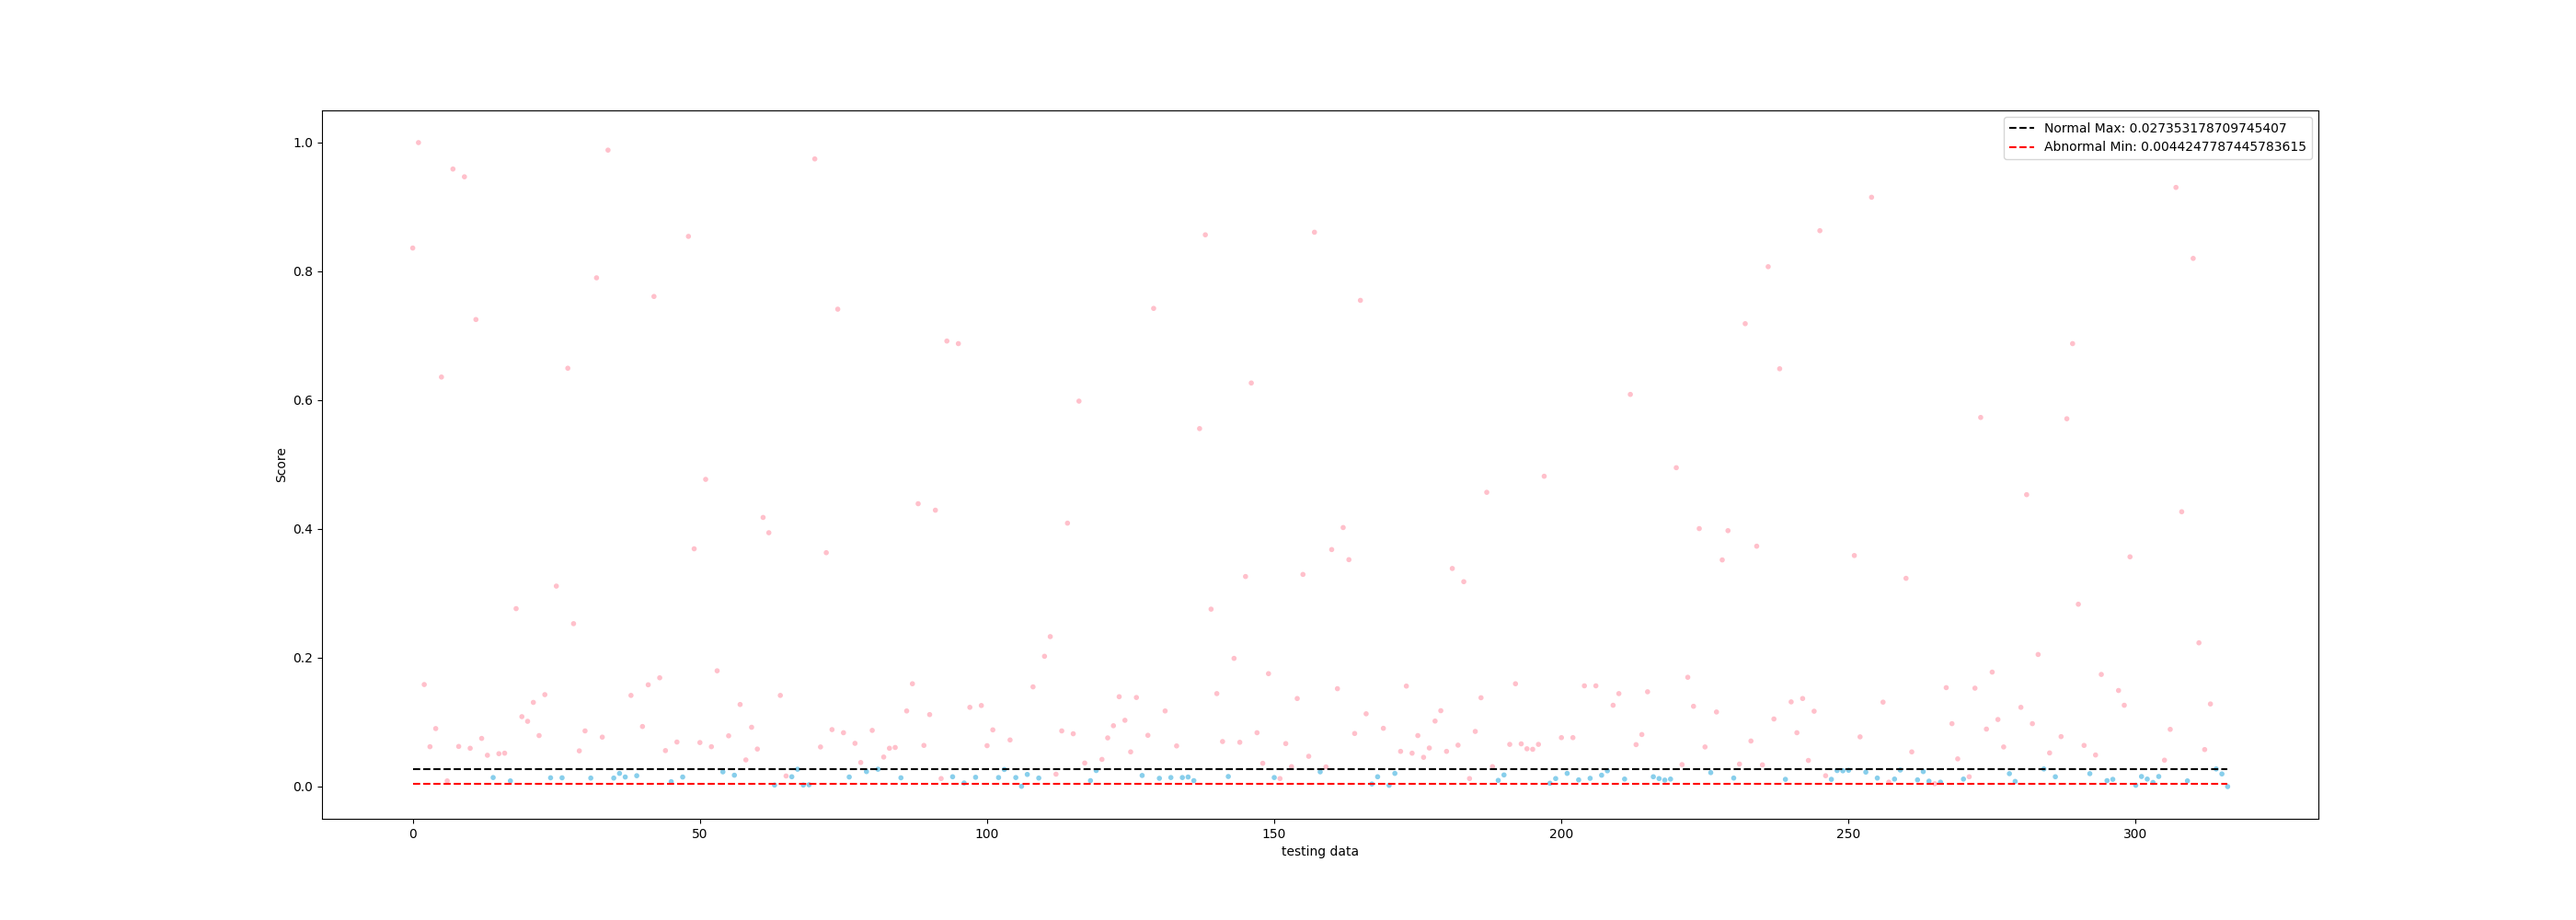
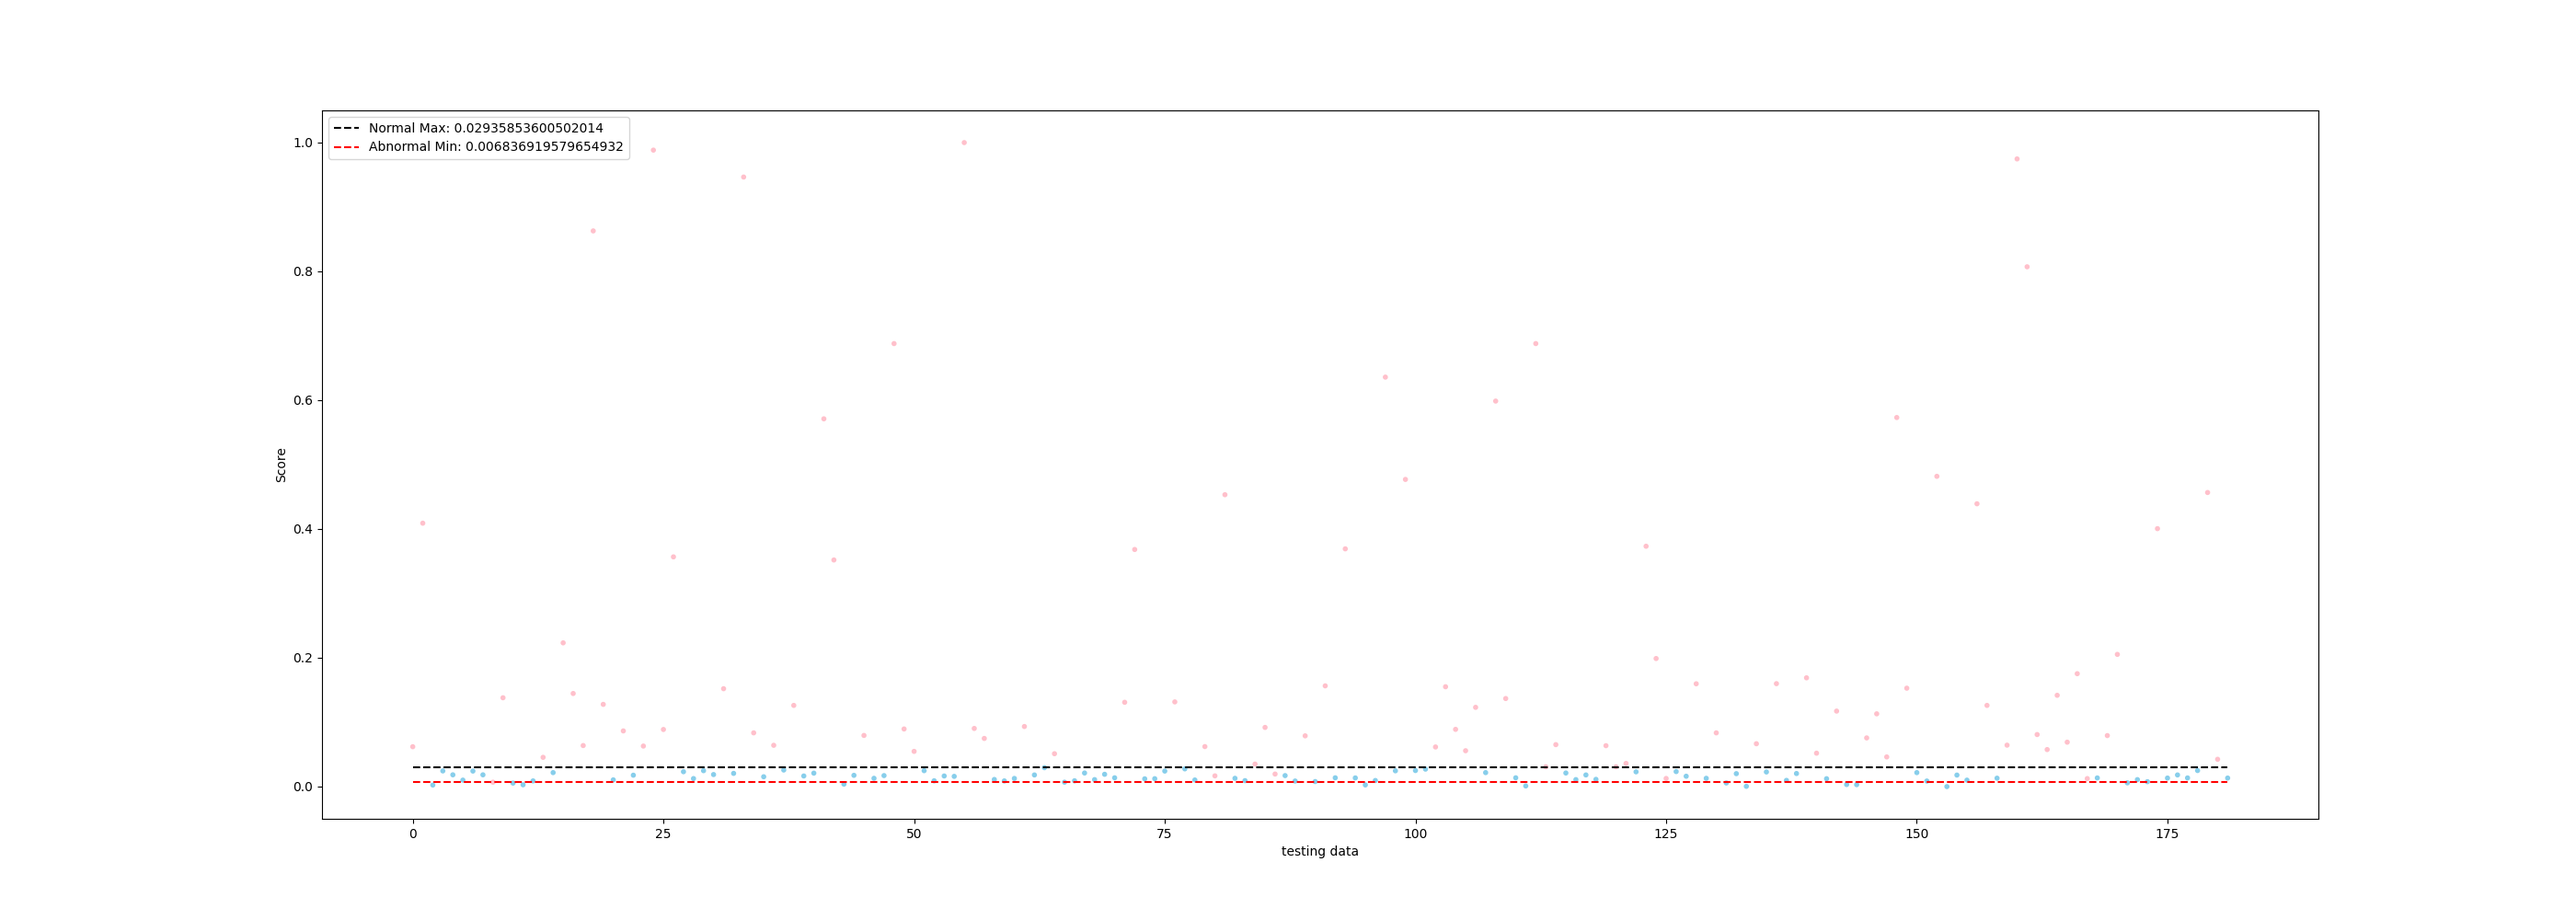
fine tuned SVM by gridsearch

Changed region(s): [[0.1554, 0.806, 0.87, 0.868], [0.7768, 0.124, 0.9011, 0.186], [0.1243, 0.124, 0.2486, 0.186]]

diff --git a/main.py b/main.py
@@ -17,7 +17,7 @@ import xlsxwriter
 
 from SVMcalssify import SVM_classifier
     
-def train(x_ok, gan_trainer, g_e, g, e, f_e, d, cp, cpdir, classType, bz=32, epoch=1000, score_rate = 0.8):
+def train(x_ok, gan_trainer, g_e, g, e, f_e, d, cp, cpdir, classType, bz=32, epoch=1000, score_rate = 0.8, fig_interval=50):
     train_data_generator = get_data_generator(x_ok, bz)
     for i in range(epoch):
         if i==0:
@@ -38,10 +38,10 @@ def train(x_ok, gan_trainer, g_e, g, e, f_e, d, cp, cpdir, classType, bz=32, epo
         d.trainable = False        
         g_loss = gan_trainer.train_on_batch(x, y)
         
-        if (i+1) % 50 == 0:
+        if (i+1) % fig_interval == 0:
             print(f'epoch: {i+1}, g_loss: {g_loss}, d_loss: {d_loss}')
             save_checkpoints(cp, cpdir)
-            evaluate_fig(g, g_e, i+1, classType, score_rate=scoreRate)
+            evaluate_fig(g, g_e, i+1, classType, score_rate=SCORE_RATE)
             
 def save_checkpoints(cp ,cpdir):
     cp.save(file_prefix = os.path.join(cpdir, "ckpt"))
@@ -115,7 +115,7 @@ def evaluate_fig(g, g_e, epoch, classType, score_rate = 0.8):
     plt.savefig(filename)
     plt.close()
     
-def final_evaluate( g,g_e, normal, confidence_rate = 0.99, score_rate = 0.8):  
+def final_evaluate( g ,g_e, normal, confidence_rate = 0.99, score_rate = 0.8):  
     
     encoded = g_e.predict(x_test)
     gan_x = g.predict(x_test)
@@ -152,6 +152,16 @@ def final_evaluate( g,g_e, normal, confidence_rate = 0.99, score_rate = 0.8):
     plt.show()
     return gan_x, normal_score, abnormal_score, score
 
+def x_to_Score(x_data, y_data, g, g_e, score_rate=0.8):
+    x_data = x_data.reshape(-1,32, 32,1)
+    score = Calculate_Score(score_rate, x_data, g, g_e)
+    normal_score, abnormal_score = [], []
+    for i in range(len(y_data)):
+        if y_data[i]==1: normal_score.append(score[i])
+        else: abnormal_score.append(score[i])
+    normal_score, abnormal_score = np.array(normal_score), np.array(abnormal_score)
+    return normal_score, abnormal_score
+
 def SVM_evaluate(score, predict, actual):
     rcParams['figure.figsize'] = 28, 10
     rcParams['lines.markersize'] = 3
@@ -170,7 +180,7 @@ def SVM_evaluate(score, predict, actual):
     plt.show()
     
     
-def show_generate(testX, testY, ganX):
+def excel_generate(testX, testY, ganX):
     testX_reshape, ganX_reshape = np.reshape(testX, (len(testX), 25)), np.reshape(ganX, (len(ganX), 25))
     testX_label, ganX_label = np.empty((len(testX), 26), float), np.empty((len(ganX), 26), float)
     for i in range(len(testY)):
@@ -198,12 +208,17 @@ def generate_GIF():
     
     
 if __name__ == "__main__":
-    normal, abnormal = 1, -1
-    train_rate = 0.8
-    scoreRate = 0.8
+    NORMAL, ABNORMAL = 1, -1
+    GAN_TRAIN_RATE = 0.8
+    SVM_TRAIN_RATE = 0.8
+    SCORE_RATE = 0.8
+    EPOCH = 1000
+    BATCH_SIZE = 16
+    CONFIDENCE_RATE = 0.99
+    
     loadData = LoadData()
     #(x_ok, y_ok), (x_test, y_test) = dataPreprocess_Main(train_data_ratio=0.8)
-    (x_train, y_train), (x_test, y_test) = loadData.train_test_split(rate=train_rate)
+    (x_train, y_train), (x_test, y_test) = loadData.train_test_split(rate=GAN_TRAIN_RATE)
     print(x_train.shape, y_train.shape)
     print(x_test.shape,y_test.shape)
     x_train = x_train.reshape(-1,32, 32,1)
@@ -229,14 +244,22 @@ if __name__ == "__main__":
     checkpoint_dir = './training_checkpoints'
     
     #! for training use this line
-    #train(x_train, gTrainer, g_e, g, e, f_e, d, checkpoint, checkpoint_dir, [normal,abnormal], bz=16, epoch=2000, )
+    #train(x_train, gTrainer, g_e, g, e, f_e, d, checkpoint, checkpoint_dir, [NORMAL,ABNORMAL], bz=BATCH_SIZE, epoch=EPOCH, fig_interval=(EPOCH//10))
     #ganomaly.saveModel()
     
     generate_GIF()
-    (final_ganX, normal_score, abnormal_score, score) = final_evaluate(g,g_e, normal, confidence_rate=0.995, score_rate=scoreRate)
-    #show_generate(x_test, y_test, final_ganX)
+    (final_ganX, normal_score, abnormal_score, score) = final_evaluate(g, g_e, NORMAL, confidence_rate=CONFIDENCE_RATE, score_rate=SCORE_RATE)
+    #excel_generate(x_test, y_test, final_ganX)
     
-    svm = SVM_classifier(normal=normal_score, abnormal=abnormal_score, testSize=0.2)
+    
+    
+    
+    
+    svm_x_data, svm_y_data = loadData.SVC_dataPrepare()
+    svm_normal_score, svm_abnormal_score = x_to_Score(x_data=svm_x_data, y_data=svm_y_data, g=g, g_e=g_e, score_rate=SCORE_RATE)
+    print('svm normal = '+str(len(svm_normal_score))+', abnormal = '+str(len(svm_abnormal_score)))
+    
+    svm = SVM_classifier(normal=svm_normal_score, abnormal=svm_abnormal_score, testSize=(1-SVM_TRAIN_RATE))
     
     #! for training use this line
     #svm.train()

diff --git a/SVMcalssify.py b/SVMcalssify.py
@@ -7,6 +7,7 @@ from matplotlib.colors import ListedColormap
 import joblib
 from sklearn.metrics import classification_report, confusion_matrix
 import seaborn as sns
+from sklearn.model_selection import GridSearchCV
 
 class SVM_classifier():
     def __init__(self,normal, abnormal, testSize):
@@ -18,24 +19,33 @@ class SVM_classifier():
         self.y_concat = np.concatenate((y_normal, y_abnormal), axis=None)
         #print(self.y_concat)
         
-        self.X_train, self.X_test, self.y_train, self.y_test = train_test_split(self.x_concat, self.y_concat, test_size=testSize, random_state=0)
+        self.X_train, self.X_test, self.y_train, self.y_test = train_test_split(self.x_concat, self.y_concat, test_size=testSize, random_state=10)
         #print(self.y_train)
         #print(self.y_test)
         print('Train data count = '+str(len(self.y_train)), 'Test data count = '+str(len(self.y_test)))
+        print('normal count='+str(normal_len),'abnormal count='+str(abnormal_len))
         
-        self.svm = SVC(kernel='linear', probability=True)
+        
+        # defining parameter range
+        param_grid = {'C': [0.1, 1, 10, 100, 1000],
+                    'gamma': [1, 0.1, 0.01, 0.001, 0.0001],
+                    'kernel': ['linear']}
+        self.gs_svm = GridSearchCV(SVC(), param_grid, refit=True, verbose=3)
+        #self.svm = SVC(kernel='linear', probability=True, C=1)
         
     def train(self):
         X_train_reshape = self.X_train.reshape(-1,1)
-        self.svm.fit(X_train_reshape, self.y_train)
+        self.gs_svm.fit(X_train_reshape, self.y_train)
+        print(self.gs_svm.best_params_)
+        print(self.gs_svm.best_estimator_)
     
     def load_model(self):
-        self.svm = joblib.load('saved_model/SVM_model')
+        self.gs_svm = joblib.load('saved_model/SVM_model')
     
     def accuracy_on_test(self):
         X_test_reshape = self.X_test.reshape(-1,1)
         error = 0
-        predict_result = self.svm.predict(X_test_reshape)
+        predict_result = self.gs_svm.predict(X_test_reshape)
         for i, v in enumerate(predict_result):
             if v!= self.y_test[i]:
                 error += 1
@@ -43,15 +53,15 @@ class SVM_classifier():
         print('error = '+str(error)+' on '+str(len(self.y_test))+' test samples')
         print('accuracy = '+str(1 - (error / len(self.y_test))))
         
-        joblib.dump(self.svm, 'saved_model/SVM_model')
+        joblib.dump(self.gs_svm, 'saved_model/SVM_model')
         
         return self.X_test, predict_result, self.y_test
     
     def ConfusionMartrix(self):
         X_train_reshape = self.X_train.reshape(-1,1)
         X_test_reshape = self.X_test.reshape(-1,1)
-        train_predictions = self.svm.predict(X_train_reshape)
-        test_predictions = self.svm.predict(X_test_reshape)
+        train_predictions = self.gs_svm.predict(X_train_reshape)
+        test_predictions = self.gs_svm.predict(X_test_reshape)
         train_confu_matrix = confusion_matrix(self.y_train, train_predictions)
         test_confu_matrix = confusion_matrix(self.y_test, test_predictions)
         
@@ -79,7 +89,7 @@ class SVM_classifier():
         
     def ClassificationReport(self):
         X_test_reshape = self.X_test.reshape(-1,1)
-        test_predictions = self.svm.predict(X_test_reshape)
+        test_predictions = self.gs_svm.predict(X_test_reshape)
         class_report = classification_report(y_pred=test_predictions, y_true=self.y_test)
         print(class_report)
         auc = metrics.roc_auc_score(y_true=self.y_test, y_score=test_predictions)

diff --git a/LoadData.py b/LoadData.py
@@ -43,7 +43,7 @@ class LoadData():
         #print()
         #print(self.x_dict, self.y_dict)
         
-    def train_test_split(self, rate = 0.8 ,each_abnormal_test_data=25):
+    def train_test_split(self, rate = 0.8):
         x_normal_shuffle, y_normal_shuffle = skUtils.shuffle(self.x_dict['Normal'], self.y_dict['Normal'])
         self.x_train, self.x_normal_test = x_normal_shuffle[:int(len(x_normal_shuffle)*rate)], x_normal_shuffle[int(len(x_normal_shuffle)*rate):]
         self.y_train, self.y_normal_test = y_normal_shuffle[:int(len(y_normal_shuffle)*rate)], y_normal_shuffle[int(len(y_normal_shuffle)*rate):]
@@ -52,6 +52,7 @@ class LoadData():
         
         abnormal_category = ['Ball_007', 'Ball_014', 'Ball_021', 'OR_007', 'OR_014', 'OR_021', 'IR_007', 'IR_014', 'IR_021']
         abnormal_x_test, abnormal_y_test = {}, {}
+        each_abnormal_test_data = int(len(x_normal_shuffle)*(1-rate) / (len(self.y_dict.keys())-1) )
         for category in abnormal_category:
             abnormal_x_test[category] = self.x_dict[category][:each_abnormal_test_data]
             abnormal_y_test[category] = self.y_dict[category][:each_abnormal_test_data]
@@ -82,6 +83,36 @@ class LoadData():
         #print(self.y_test)
         
         return (self.x_train, self.y_train), (self.x_test, self.y_test)
+    
+    def SVC_dataPrepare(self):
+        abnormal_category = ['Ball_007', 'Ball_014', 'Ball_021', 'OR_007', 'OR_014', 'OR_021', 'IR_007', 'IR_014', 'IR_021']
+        abnormal_x, abnormal_y = {}, {}
+        each_abnormal_data = int(len(self.x_dict['Normal']) / (len(self.y_dict.keys())-1) )
+        for category in abnormal_category:
+            abnormal_x[category] = self.x_dict[category][:each_abnormal_data]
+            abnormal_y[category] = self.y_dict[category][:each_abnormal_data]
+        
+        xdata = np.concatenate([self.x_dict['Normal'],
+                                abnormal_x['Ball_007'],
+                                abnormal_x['Ball_014'],
+                                abnormal_x['Ball_021'],
+                                abnormal_x['OR_007'],
+                                abnormal_x['OR_014'],
+                                abnormal_x['OR_021'],
+                                abnormal_x['IR_007'],
+                                abnormal_x['IR_014'],
+                                abnormal_x['IR_021']])
+        ydata = np.concatenate([self.y_dict['Normal'],
+                                abnormal_y['Ball_007'],
+                                abnormal_y['Ball_014'],
+                                abnormal_y['Ball_021'],
+                                abnormal_y['OR_007'],
+                                abnormal_y['OR_014'],
+                                abnormal_y['OR_021'],
+                                abnormal_y['IR_007'],
+                                abnormal_y['IR_014'],
+                                abnormal_y['IR_021']])
+        return (xdata, ydata)
         
     
     def Define_normal_Abnormal(self, normal_class, abnormal_class_1, abnormal_class_2):
